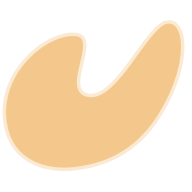
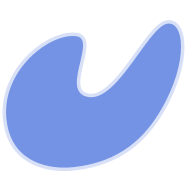
Improve light style

diff --git a/stylish/styles/theme.css b/stylish/styles/theme.css
@@ -23,20 +23,16 @@
   }
 }
 
-@function light-dark($light, $dark) {
-  @return;
-}
-
 :root {
-  --bg1: var(--light, #e6ecc1) var(--dark, #252b31);
-  --bg2: var(--light, #4d5938) var(--dark, #1d2024);
-  --bg3: var(--light, #f3f4f0) var(--dark, #3e484a);
+  --bg1: var(--light, white) var(--dark, #252b31);
+  --bg2: var(--light, #2e51a2) var(--dark, #1d2024);
+  --bg3: var(--light, #fbfcfe) var(--dark, #3e484a);
   --fg1: var(--light, #3e5336) var(--dark, #d1d6d5);
   --fg2: var(--light, #3e5336) var(--dark, #c1c8c7);
-  --fg3: var(--light, #2c3635) var(--dark, #252b31);
-  --hl1: var(--light, #fa996f) var(--dark, #d9a379);
-  --hl2: var(--light, #ecc38e) var(--dark, #d49c6b);
-  --hl3: var(--light, #b55d4d) var(--dark, #d9a379);
+  --fg3: var(--light, white) var(--dark, #252b31);
+  --hl1: var(--light, #2e51a2) var(--dark, #d9a379);
+  --hl2: var(--light, #e5ebfa) var(--dark, #d49c6b);
+  --hl3: var(--light, #2e51a2) var(--dark, #d9a379);
   --fg: brightness(0.8);
   --bg: brightness(1.3);
 }

diff --git a/stylish/styles/main.css b/stylish/styles/main.css
@@ -25,6 +25,11 @@ h3 {
 
 a {
   color: var(--hl3);
+  text-decoration: underline dotted 0.1em;
+}
+
+a:hover {
+  text-decoration: underline 0.1em;
 }
 
 button {
@@ -40,6 +45,10 @@ button {
   border-radius: 1em;
   color: var(--fg3);
   background: linear-gradient(175deg, var(--hl1), var(--bg1) 180%);
+}
+
+:root.theme-light #title {
+  background: var(--bg2);
 }
 
 #title:hover {
@@ -58,6 +67,11 @@ button {
 
 .text-box {
   background: var(--bg3);
+}
+
+:root.theme-light .text-box {
+  /* background: var(--bg1); */
+  border: var(--hl1) 3px outset;
 }
 
 .hidden {

diff --git a/stylish/styles/transition.css b/stylish/styles/transition.css
@@ -3,13 +3,13 @@
 #transition {
   z-index: -2;
   position: fixed;
-  top: 30vh;
+  top: 80vh;
   left: 0;
   width: 100vw;
 }
 
 #transition > svg {
-  height: 30vh;
+  height: 15vh;
   width: 100%;
 }
 
